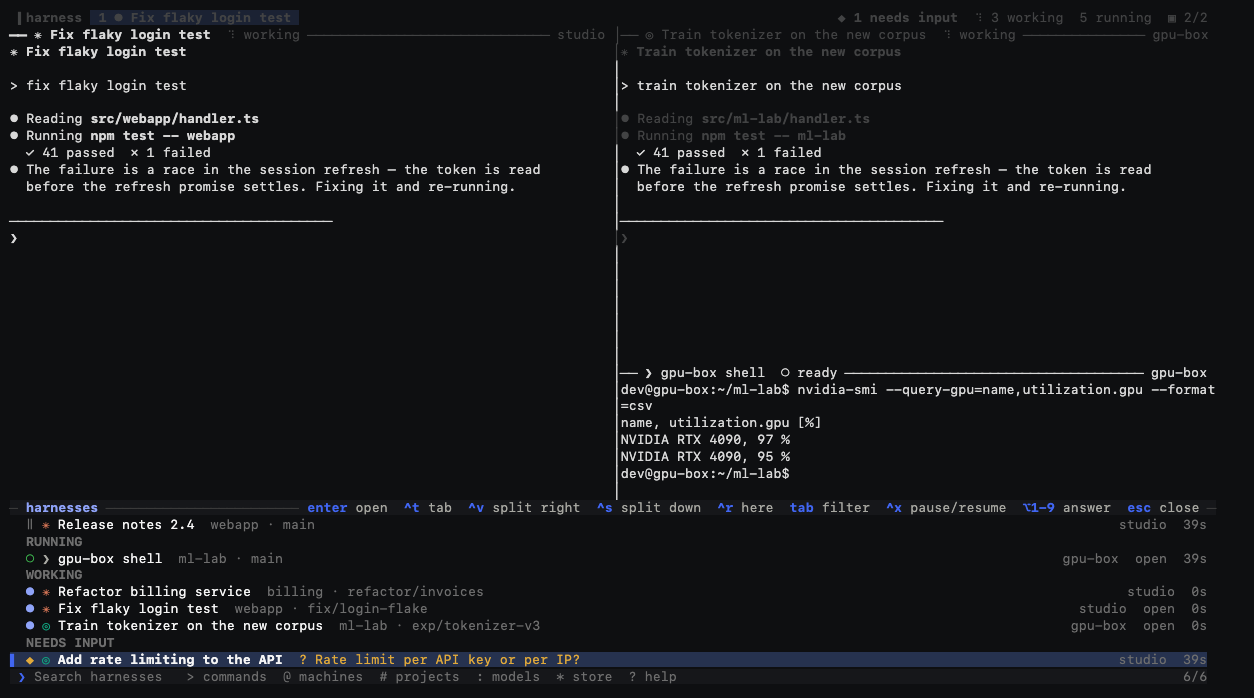
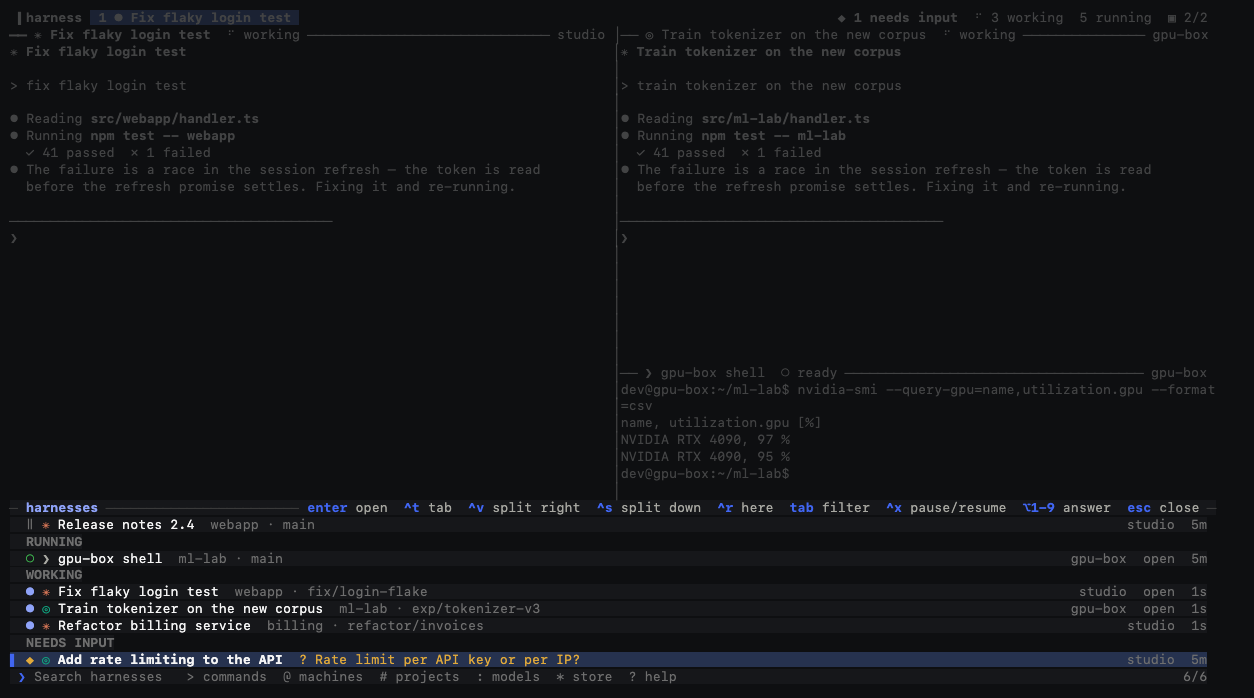
docs(tui): demo screenshots; backdrop dimming test

diff --git a/tui/src/ui.rs b/tui/src/ui.rs
@@ -592,3 +592,18 @@ fn toast(buf: &mut Buffer, area: Rect, text: &str, color: Color) {
     Paragraph::new(Line::from(vec![Span::styled(format!("  {text}  "), Style::default().fg(color).bg(theme::PANEL).add_modifier(Modifier::BOLD))])).render(rect, buf);
 }
 
+
+#[cfg(test)]
+mod tests {
+    use super::*;
+
+    #[test]
+    fn backdrop_dims_styled_cells() {
+        let mut buf = Buffer::empty(Rect::new(0, 0, 4, 1));
+        buf.cell_mut((0, 0)).unwrap().set_char('x').set_style(Style::default().fg(Color::Indexed(208)).add_modifier(Modifier::BOLD));
+        dim_backdrop(&mut buf, Rect::new(0, 0, 4, 1));
+        let cell = &buf[(0, 0)];
+        assert_eq!(cell.fg, theme::MUTED);
+        assert!(cell.modifier.contains(Modifier::DIM));
+    }
+}
